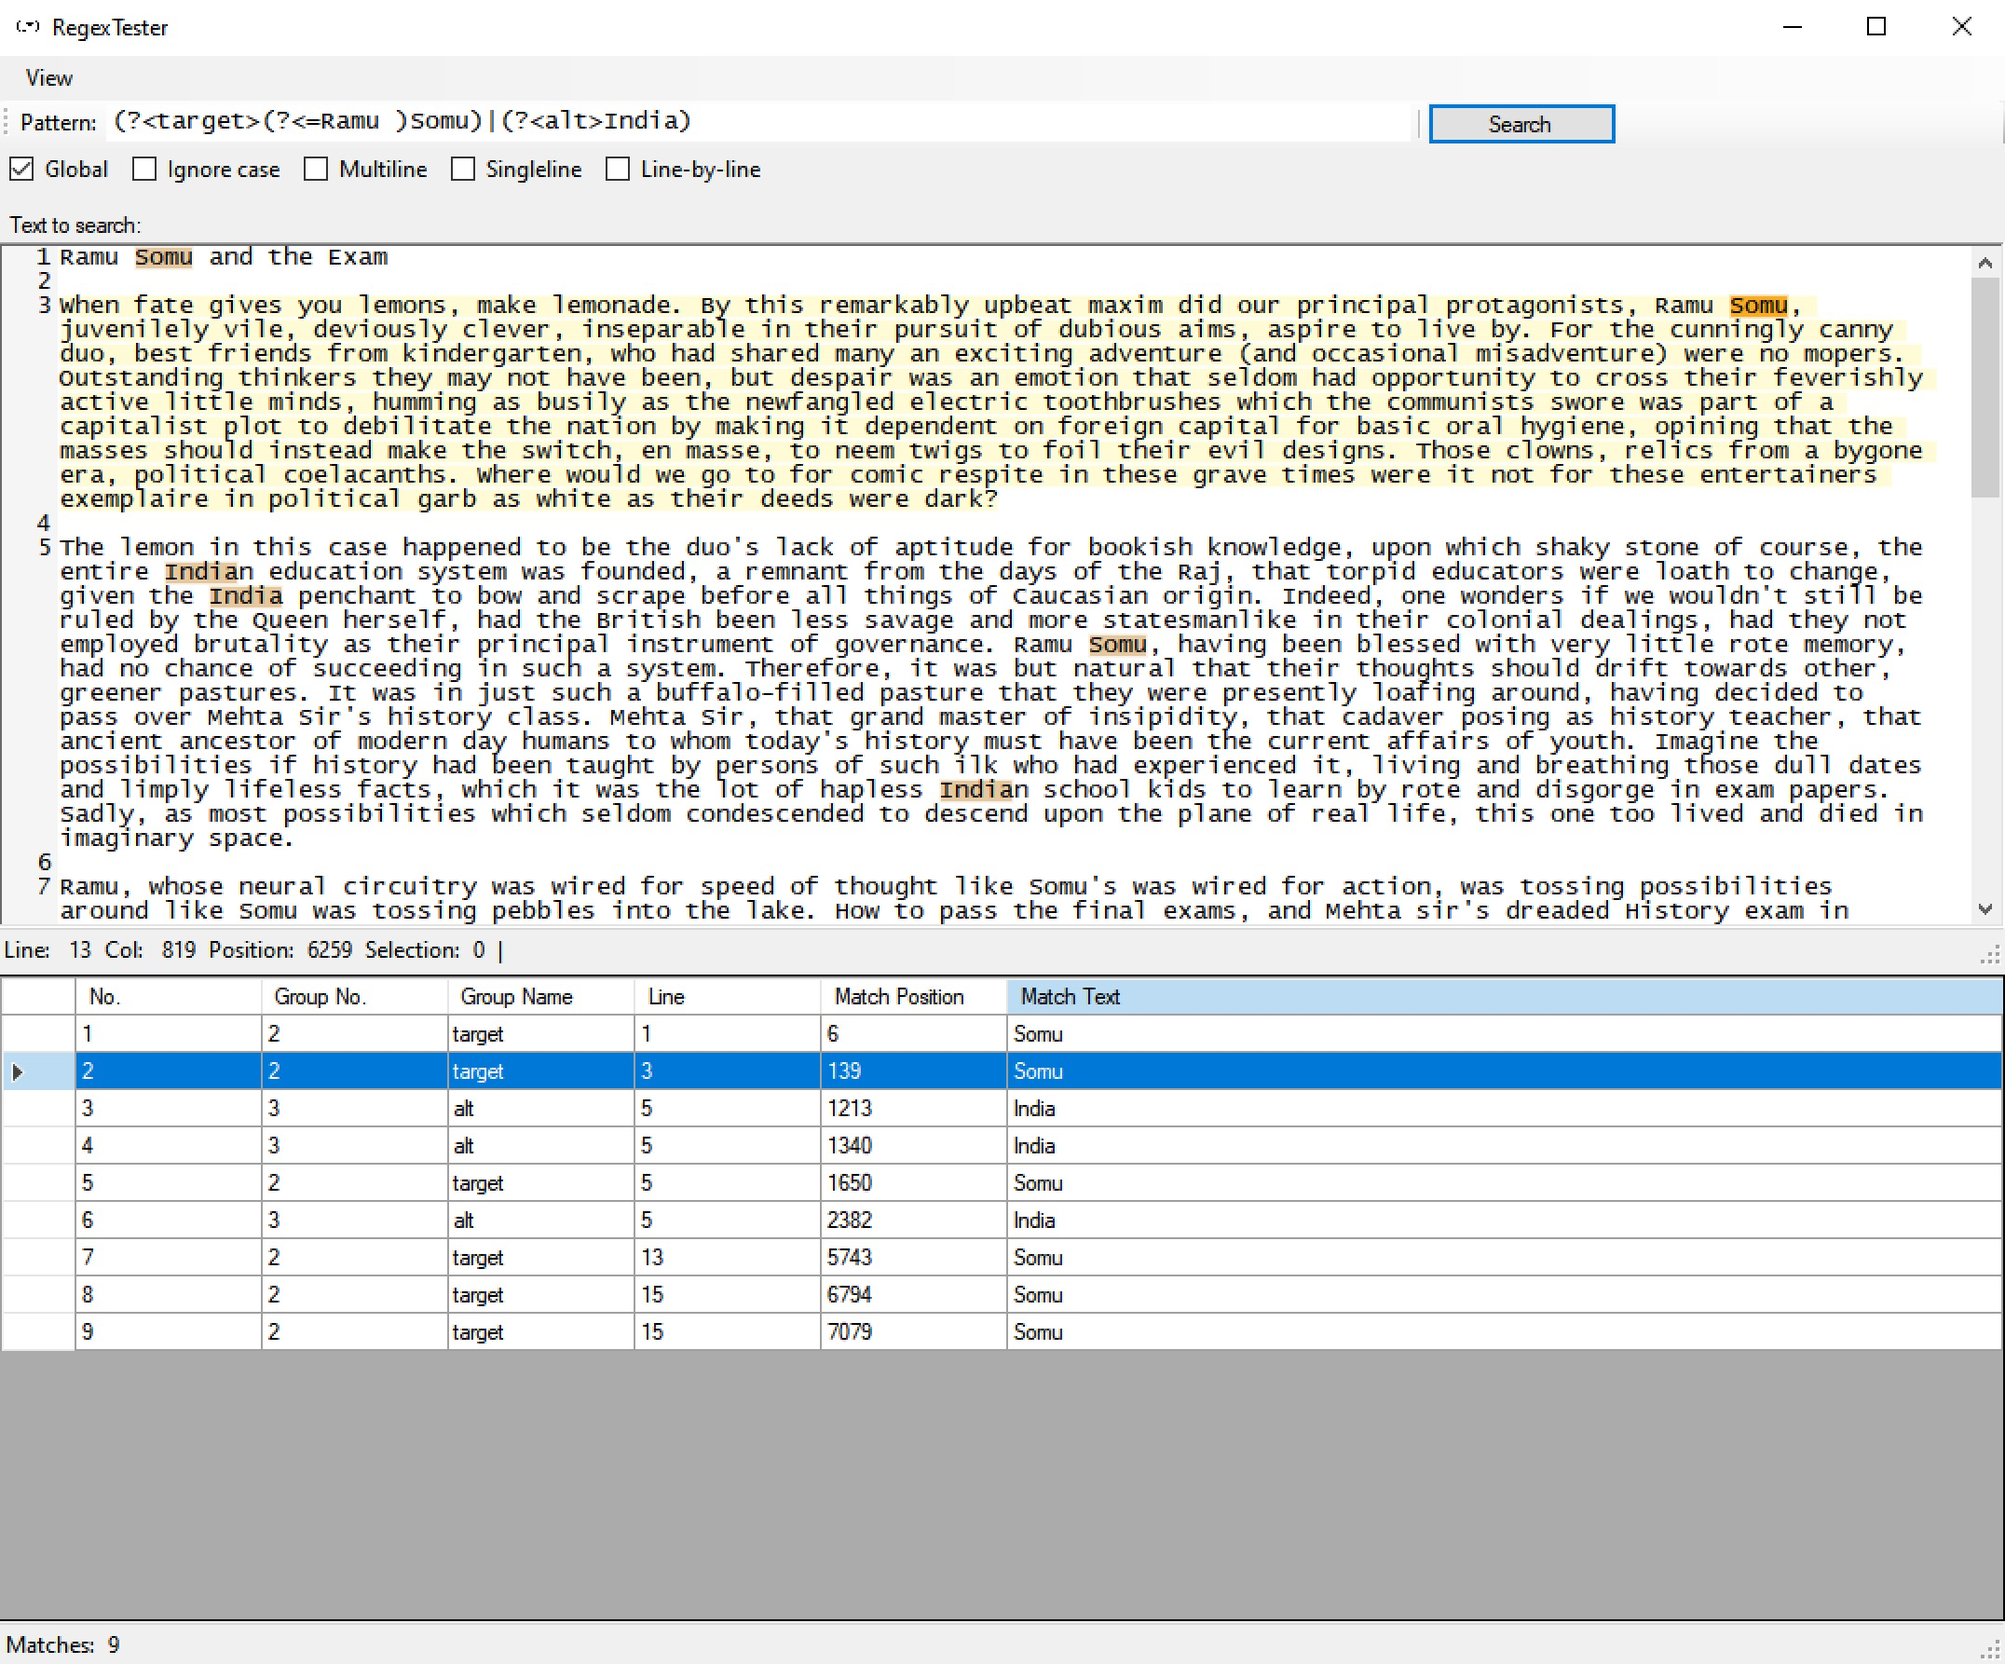
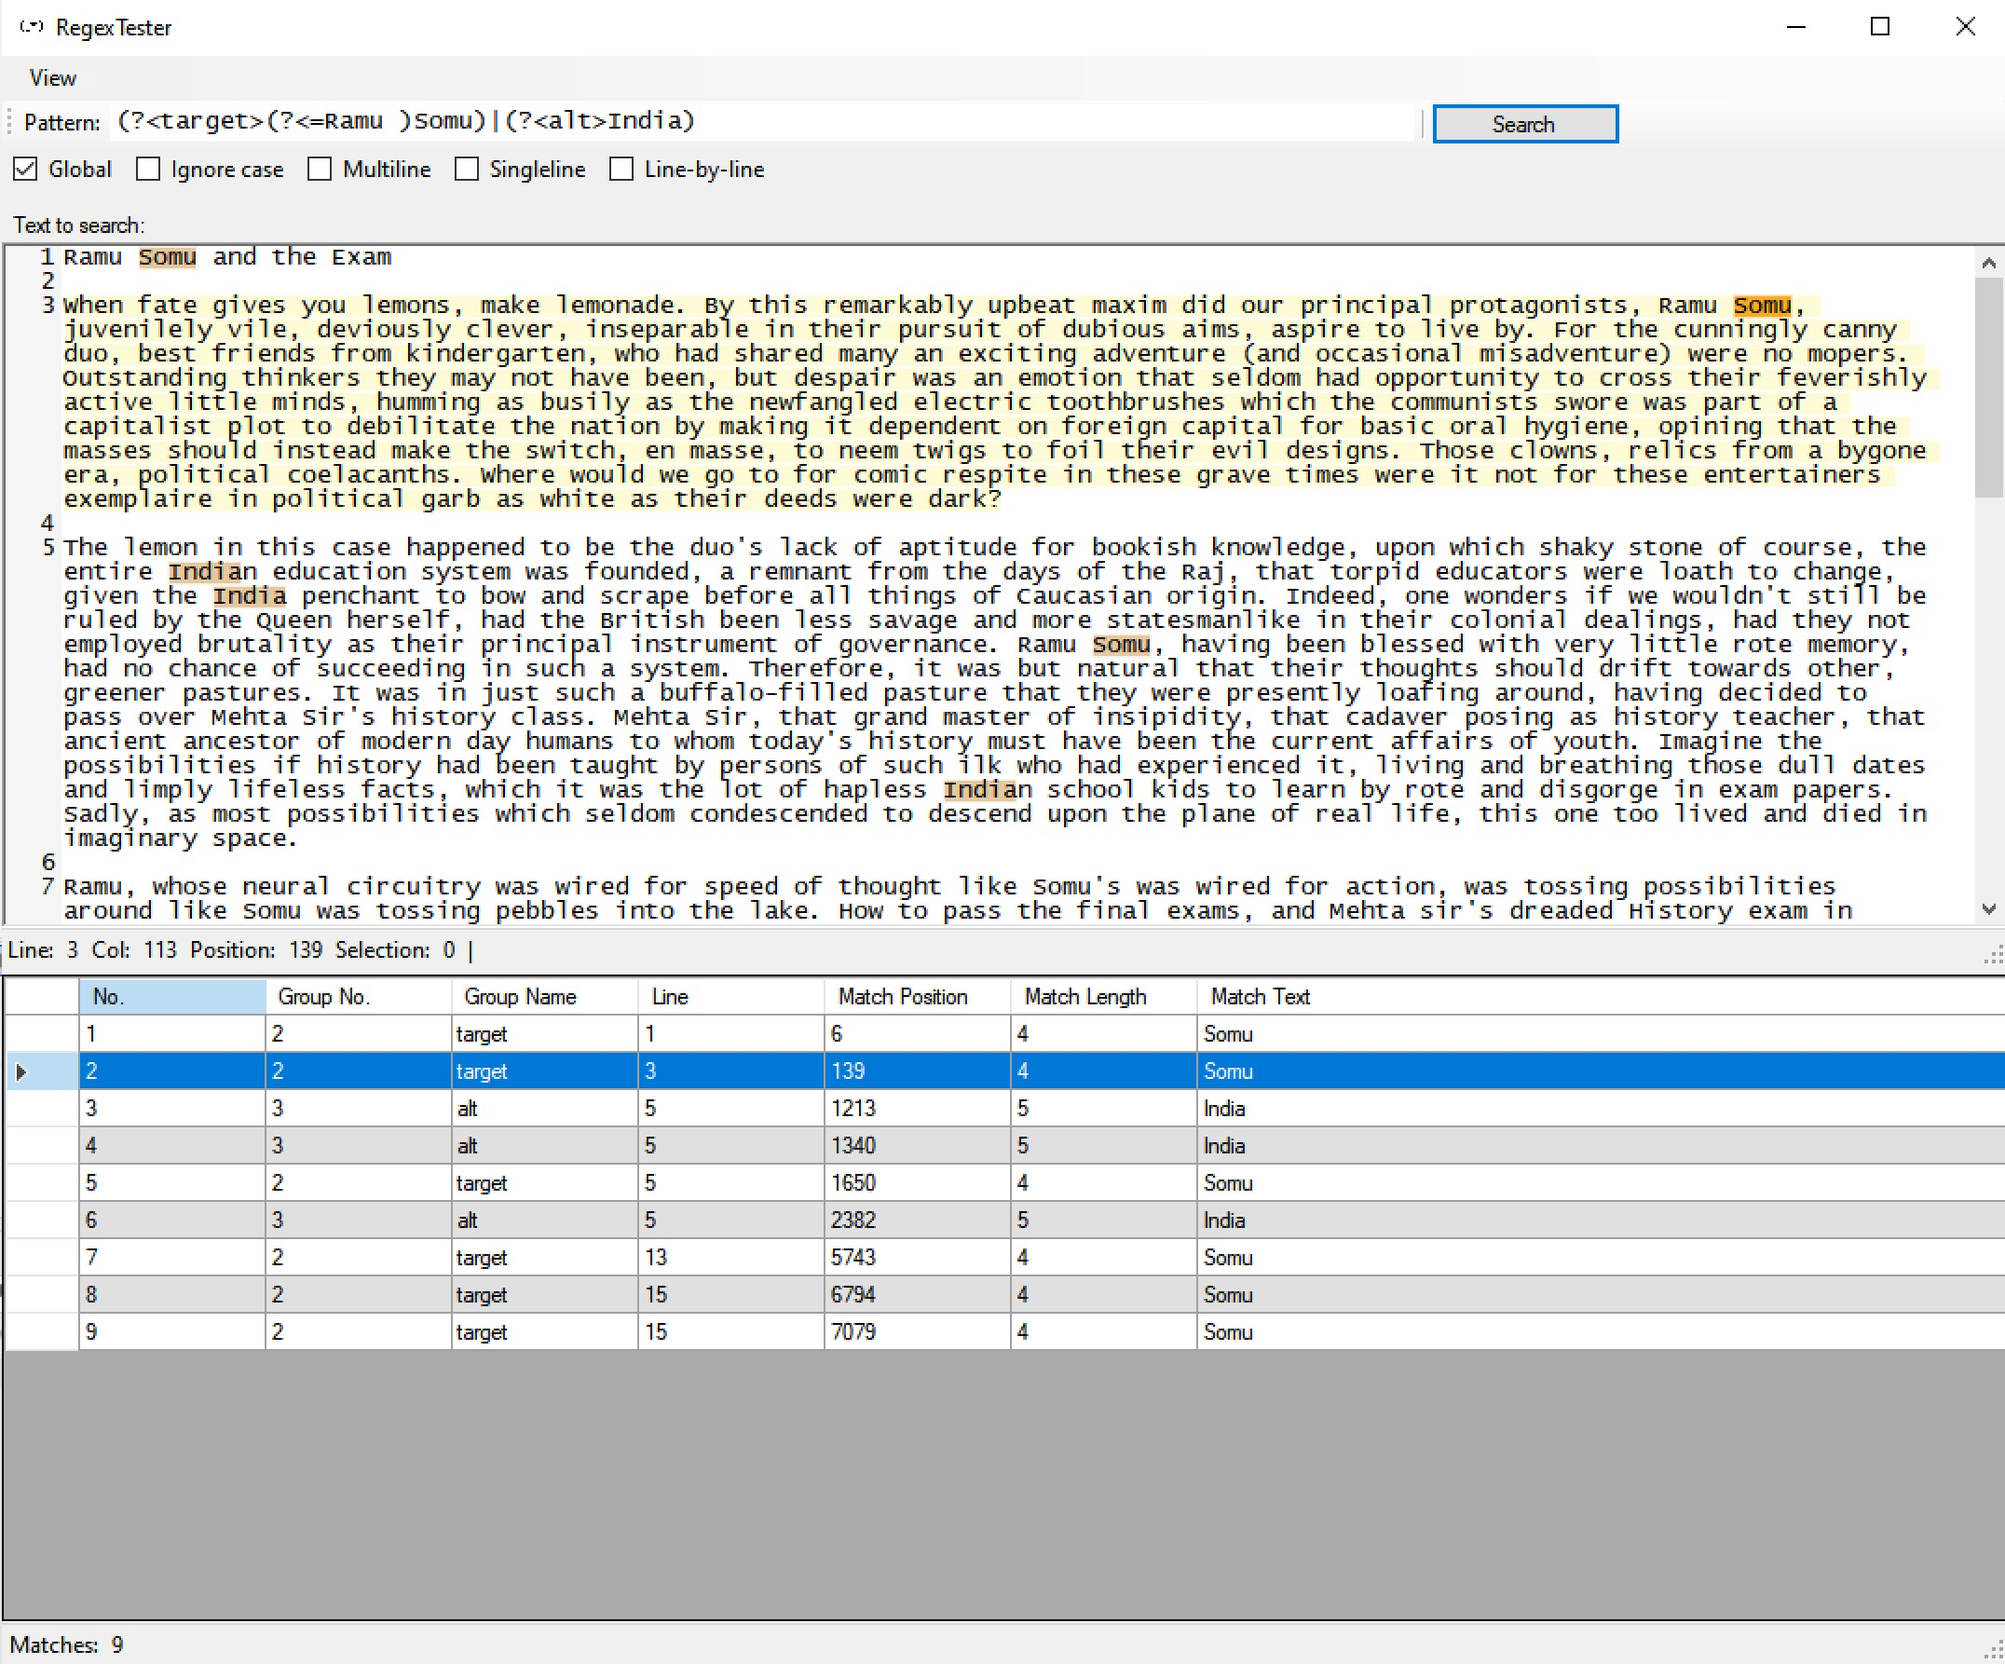
Niceties - select data grid on search completion

diff --git a/RegexTester/MainForm.Designer.cs b/RegexTester/MainForm.Designer.cs
@@ -29,6 +29,7 @@
         private void InitializeComponent()
         {
             this.components = new System.ComponentModel.Container();
+            System.Windows.Forms.DataGridViewCellStyle dataGridViewCellStyle1 = new System.Windows.Forms.DataGridViewCellStyle();
             System.ComponentModel.ComponentResourceManager resources = new System.ComponentModel.ComponentResourceManager(typeof(MainForm));
             this.chkGlobal = new System.Windows.Forms.CheckBox();
             this.chkIgnoreCase = new System.Windows.Forms.CheckBox();
@@ -42,14 +43,6 @@
             this.toolStripSeparator1 = new System.Windows.Forms.ToolStripSeparator();
             this.label1 = new System.Windows.Forms.Label();
             this.dataGridMatches = new System.Windows.Forms.DataGridView();
-            this.Num = new System.Windows.Forms.DataGridViewTextBoxColumn();
-            this.GroupIdx = new System.Windows.Forms.DataGridViewTextBoxColumn();
-            this.Group = new System.Windows.Forms.DataGridViewTextBoxColumn();
-            this.Line = new System.Windows.Forms.DataGridViewTextBoxColumn();
-            this.MatchIdx = new System.Windows.Forms.DataGridViewTextBoxColumn();
-            this.MatchText = new System.Windows.Forms.DataGridViewTextBoxColumn();
-            this.LineStartPos = new System.Windows.Forms.DataGridViewTextBoxColumn();
-            this.LineEndPos = new System.Windows.Forms.DataGridViewTextBoxColumn();
             this.splitContainer1 = new System.Windows.Forms.SplitContainer();
             this.txtInputText = new RegexTester.SciTextBoxControl();
             this.statusStrip1 = new System.Windows.Forms.StatusStrip();
@@ -64,6 +57,15 @@
             this.showWrapSymbolToolStripMenuItem = new System.Windows.Forms.ToolStripMenuItem();
             this.wordWrapToolStripMenuItem = new System.Windows.Forms.ToolStripMenuItem();
             this.btnSearch = new System.Windows.Forms.Button();
+            this.Num = new System.Windows.Forms.DataGridViewTextBoxColumn();
+            this.GroupIdx = new System.Windows.Forms.DataGridViewTextBoxColumn();
+            this.Group = new System.Windows.Forms.DataGridViewTextBoxColumn();
+            this.Line = new System.Windows.Forms.DataGridViewTextBoxColumn();
+            this.MatchIdx = new System.Windows.Forms.DataGridViewTextBoxColumn();
+            this.MatchLength = new System.Windows.Forms.DataGridViewTextBoxColumn();
+            this.MatchText = new System.Windows.Forms.DataGridViewTextBoxColumn();
+            this.LineStartPos = new System.Windows.Forms.DataGridViewTextBoxColumn();
+            this.LineEndPos = new System.Windows.Forms.DataGridViewTextBoxColumn();
             this.toolStrip1.SuspendLayout();
             ((System.ComponentModel.ISupportInitialize)(this.dataGridMatches)).BeginInit();
             ((System.ComponentModel.ISupportInitialize)(this.splitContainer1)).BeginInit();
@@ -180,6 +182,8 @@
             // dataGridMatches
             // 
             this.dataGridMatches.AllowUserToAddRows = false;
+            dataGridViewCellStyle1.BackColor = System.Drawing.Color.FromArgb(((int)(((byte)(224)))), ((int)(((byte)(224)))), ((int)(((byte)(224)))));
+            this.dataGridMatches.AlternatingRowsDefaultCellStyle = dataGridViewCellStyle1;
             this.dataGridMatches.Anchor = ((System.Windows.Forms.AnchorStyles)((((System.Windows.Forms.AnchorStyles.Top | System.Windows.Forms.AnchorStyles.Bottom) 
             | System.Windows.Forms.AnchorStyles.Left) 
             | System.Windows.Forms.AnchorStyles.Right)));
@@ -191,6 +195,7 @@
             this.Group,
             this.Line,
             this.MatchIdx,
+            this.MatchLength,
             this.MatchText,
             this.LineStartPos,
             this.LineEndPos});
@@ -202,58 +207,6 @@
             this.dataGridMatches.TabIndex = 11;
             this.dataGridMatches.CellClick += new System.Windows.Forms.DataGridViewCellEventHandler(this.dataGridMatches_CellClick);
             this.dataGridMatches.SelectionChanged += new System.EventHandler(this.dataGridMatches_SelectionChanged);
-            // 
-            // Num
-            // 
-            this.Num.HeaderText = "No.";
-            this.Num.Name = "Num";
-            this.Num.ReadOnly = true;
-            // 
-            // GroupIdx
-            // 
-            this.GroupIdx.HeaderText = "Group No.";
-            this.GroupIdx.Name = "GroupIdx";
-            this.GroupIdx.ReadOnly = true;
-            // 
-            // Group
-            // 
-            this.Group.HeaderText = "Group Name";
-            this.Group.Name = "Group";
-            this.Group.ReadOnly = true;
-            // 
-            // Line
-            // 
-            this.Line.HeaderText = "Line";
-            this.Line.Name = "Line";
-            this.Line.ReadOnly = true;
-            // 
-            // MatchIdx
-            // 
-            this.MatchIdx.AutoSizeMode = System.Windows.Forms.DataGridViewAutoSizeColumnMode.None;
-            this.MatchIdx.HeaderText = "Match Position";
-            this.MatchIdx.Name = "MatchIdx";
-            this.MatchIdx.ReadOnly = true;
-            // 
-            // MatchText
-            // 
-            this.MatchText.AutoSizeMode = System.Windows.Forms.DataGridViewAutoSizeColumnMode.Fill;
-            this.MatchText.HeaderText = "Match Text";
-            this.MatchText.Name = "MatchText";
-            this.MatchText.ReadOnly = true;
-            // 
-            // LineStartPos
-            // 
-            this.LineStartPos.HeaderText = "LineStartPos";
-            this.LineStartPos.Name = "LineStartPos";
-            this.LineStartPos.ReadOnly = true;
-            this.LineStartPos.Visible = false;
-            // 
-            // LineEndPos
-            // 
-            this.LineEndPos.HeaderText = "LineEndPos";
-            this.LineEndPos.Name = "LineEndPos";
-            this.LineEndPos.ReadOnly = true;
-            this.LineEndPos.Visible = false;
             // 
             // splitContainer1
             // 
@@ -393,6 +346,64 @@
             this.btnSearch.UseVisualStyleBackColor = true;
             this.btnSearch.Click += new System.EventHandler(this.btnSearch_Click);
             // 
+            // Num
+            // 
+            this.Num.HeaderText = "No.";
+            this.Num.Name = "Num";
+            this.Num.ReadOnly = true;
+            // 
+            // GroupIdx
+            // 
+            this.GroupIdx.HeaderText = "Group No.";
+            this.GroupIdx.Name = "GroupIdx";
+            this.GroupIdx.ReadOnly = true;
+            // 
+            // Group
+            // 
+            this.Group.HeaderText = "Group Name";
+            this.Group.Name = "Group";
+            this.Group.ReadOnly = true;
+            // 
+            // Line
+            // 
+            this.Line.HeaderText = "Line";
+            this.Line.Name = "Line";
+            this.Line.ReadOnly = true;
+            // 
+            // MatchIdx
+            // 
+            this.MatchIdx.AutoSizeMode = System.Windows.Forms.DataGridViewAutoSizeColumnMode.None;
+            this.MatchIdx.HeaderText = "Match Position";
+            this.MatchIdx.Name = "MatchIdx";
+            this.MatchIdx.ReadOnly = true;
+            // 
+            // MatchLength
+            // 
+            this.MatchLength.HeaderText = "Match Length";
+            this.MatchLength.Name = "MatchLength";
+            this.MatchLength.ReadOnly = true;
+            // 
+            // MatchText
+            // 
+            this.MatchText.AutoSizeMode = System.Windows.Forms.DataGridViewAutoSizeColumnMode.Fill;
+            this.MatchText.HeaderText = "Match Text";
+            this.MatchText.Name = "MatchText";
+            this.MatchText.ReadOnly = true;
+            // 
+            // LineStartPos
+            // 
+            this.LineStartPos.HeaderText = "LineStartPos";
+            this.LineStartPos.Name = "LineStartPos";
+            this.LineStartPos.ReadOnly = true;
+            this.LineStartPos.Visible = false;
+            // 
+            // LineEndPos
+            // 
+            this.LineEndPos.HeaderText = "LineEndPos";
+            this.LineEndPos.Name = "LineEndPos";
+            this.LineEndPos.ReadOnly = true;
+            this.LineEndPos.Visible = false;
+            // 
             // MainForm
             // 
             this.AcceptButton = this.btnSearch;
@@ -461,15 +472,16 @@
         private System.Windows.Forms.ToolStripMenuItem showEndOfLineToolStripMenuItem;
         private System.Windows.Forms.ToolStripMenuItem showWrapSymbolToolStripMenuItem;
         private System.Windows.Forms.ToolStripMenuItem wordWrapToolStripMenuItem;
+        private System.Windows.Forms.Button btnSearch;
         private System.Windows.Forms.DataGridViewTextBoxColumn Num;
         private System.Windows.Forms.DataGridViewTextBoxColumn GroupIdx;
         private System.Windows.Forms.DataGridViewTextBoxColumn Group;
         private System.Windows.Forms.DataGridViewTextBoxColumn Line;
         private System.Windows.Forms.DataGridViewTextBoxColumn MatchIdx;
+        private System.Windows.Forms.DataGridViewTextBoxColumn MatchLength;
         private System.Windows.Forms.DataGridViewTextBoxColumn MatchText;
         private System.Windows.Forms.DataGridViewTextBoxColumn LineStartPos;
         private System.Windows.Forms.DataGridViewTextBoxColumn LineEndPos;
-        private System.Windows.Forms.Button btnSearch;
     }
 }
 

diff --git a/RegexTester/MainForm.cs b/RegexTester/MainForm.cs
@@ -78,6 +78,7 @@ namespace RegexTester
                         result.GroupName,
                         result.LineNum.ToString(),
                         result.MatchPos.ToString(),
+                        result.MatchText.Length.ToString(),
                         result.MatchText,
                         result.LineStartPos.ToString(),
                         result.LineEndPos.ToString()
@@ -87,6 +88,7 @@ namespace RegexTester
 
                 if (matchCount > 0)
                 {
+                    dataGridMatches.Select();
                     dataGridMatches.Rows[0].Selected = true;
                 }
             }
@@ -180,20 +182,6 @@ namespace RegexTester
             return settings;
         }
 
-        private void DoHighlight(Capture c)
-        {
-            if (this.txtInputText.InvokeRequired)
-            {
-                // It's on a different thread, so use Invoke.
-                DlgHighlightMatches d = HighlightMatches;
-                this.Invoke(d, c);
-            }
-            else
-            {
-                HighlightMatches(c);
-            }        
-        }
-
         private void OnSelectRow()
         {
             if (dataGridMatches.CurrentRow == null || !dataGridMatches.Columns.Contains("MatchIdx") ||
@@ -203,11 +191,11 @@ namespace RegexTester
             }
 
             int index = int.Parse((string)dataGridMatches.CurrentRow.Cells["MatchIdx"].Value);
-            string text = (string)dataGridMatches.CurrentRow.Cells["MatchText"].Value;
+            string matchText = (string)dataGridMatches.CurrentRow.Cells["MatchText"].Value;
 
             var textLength = txtInputText.TextBox.Text.Length;
             UnHighlightSelection(1, 1 + textLength, HighlightLayer.HighlightWordLayer);
-            HighlightSelection(index, index + text.Length, Color.Orange, HighlightLayer.HighlightWordLayer);
+            HighlightSelection(index, index + matchText.Length, Color.Orange, HighlightLayer.HighlightWordLayer);
 
             int lineStartPos = int.Parse((string)dataGridMatches.CurrentRow.Cells["LineStartPos"].Value);
             int lineEndPos = int.Parse((string)dataGridMatches.CurrentRow.Cells["LineEndPos"].Value);
@@ -218,10 +206,12 @@ namespace RegexTester
             // highlight current line
             HighlightSelection(lineStartPos, lineEndPos, Color.LemonChiffon, HighlightLayer.LineLayer);
 
+            // Set current position to the match start position
+            txtInputText.TextBox.SetSelection(index - 1, index - 1);
 
             // Scroll view if selection is out of visible range
             int scrollStart = Math.Max(index, 0);
-            int scrollEnd = Math.Min(index + text.Length, textLength - 1);
+            int scrollEnd = Math.Min(index + matchText.Length, textLength - 1);
             txtInputText.TextBox.ScrollRange(scrollStart - 1, scrollEnd - 1);
         }
 

diff --git a/RegexTester/SciTextBoxControl.Designer.cs b/RegexTester/SciTextBoxControl.Designer.cs
@@ -67,8 +67,8 @@
             // toolStripStatusLabel4
             // 
             this.toolStripStatusLabel4.Name = "toolStripStatusLabel4";
-            this.toolStripStatusLabel4.Size = new System.Drawing.Size(35, 17);
-            this.toolStripStatusLabel4.Text = "Line: ";
+            this.toolStripStatusLabel4.Size = new System.Drawing.Size(32, 17);
+            this.toolStripStatusLabel4.Text = "Line:";
             // 
             // lblLineNumber
             // 
@@ -78,8 +78,8 @@
             // toolStripStatusLabel5
             // 
             this.toolStripStatusLabel5.Name = "toolStripStatusLabel5";
-            this.toolStripStatusLabel5.Size = new System.Drawing.Size(31, 17);
-            this.toolStripStatusLabel5.Text = "Col: ";
+            this.toolStripStatusLabel5.Size = new System.Drawing.Size(28, 17);
+            this.toolStripStatusLabel5.Text = "Col:";
             // 
             // lblColumnNumber
             // 

diff --git a/README.md b/README.md
@@ -10,3 +10,12 @@ Regular expression tester for testing .NET regular expressions.
 4. Click on the `Search` button.
 The search results are displayed in the bottom pane. Selecting a row in the
 result table highlights the match text and match line.
+
+A few niceties:
+1. The last entered inputs are persisted and auto-populated when the program is
+relaunched.
+
+2. Hitting the `Enter` or `Return` key runs the search.
+
+3. The View menu provides a way to wrap/unwrap text and show/hide non-alphanumeric
+characters.
